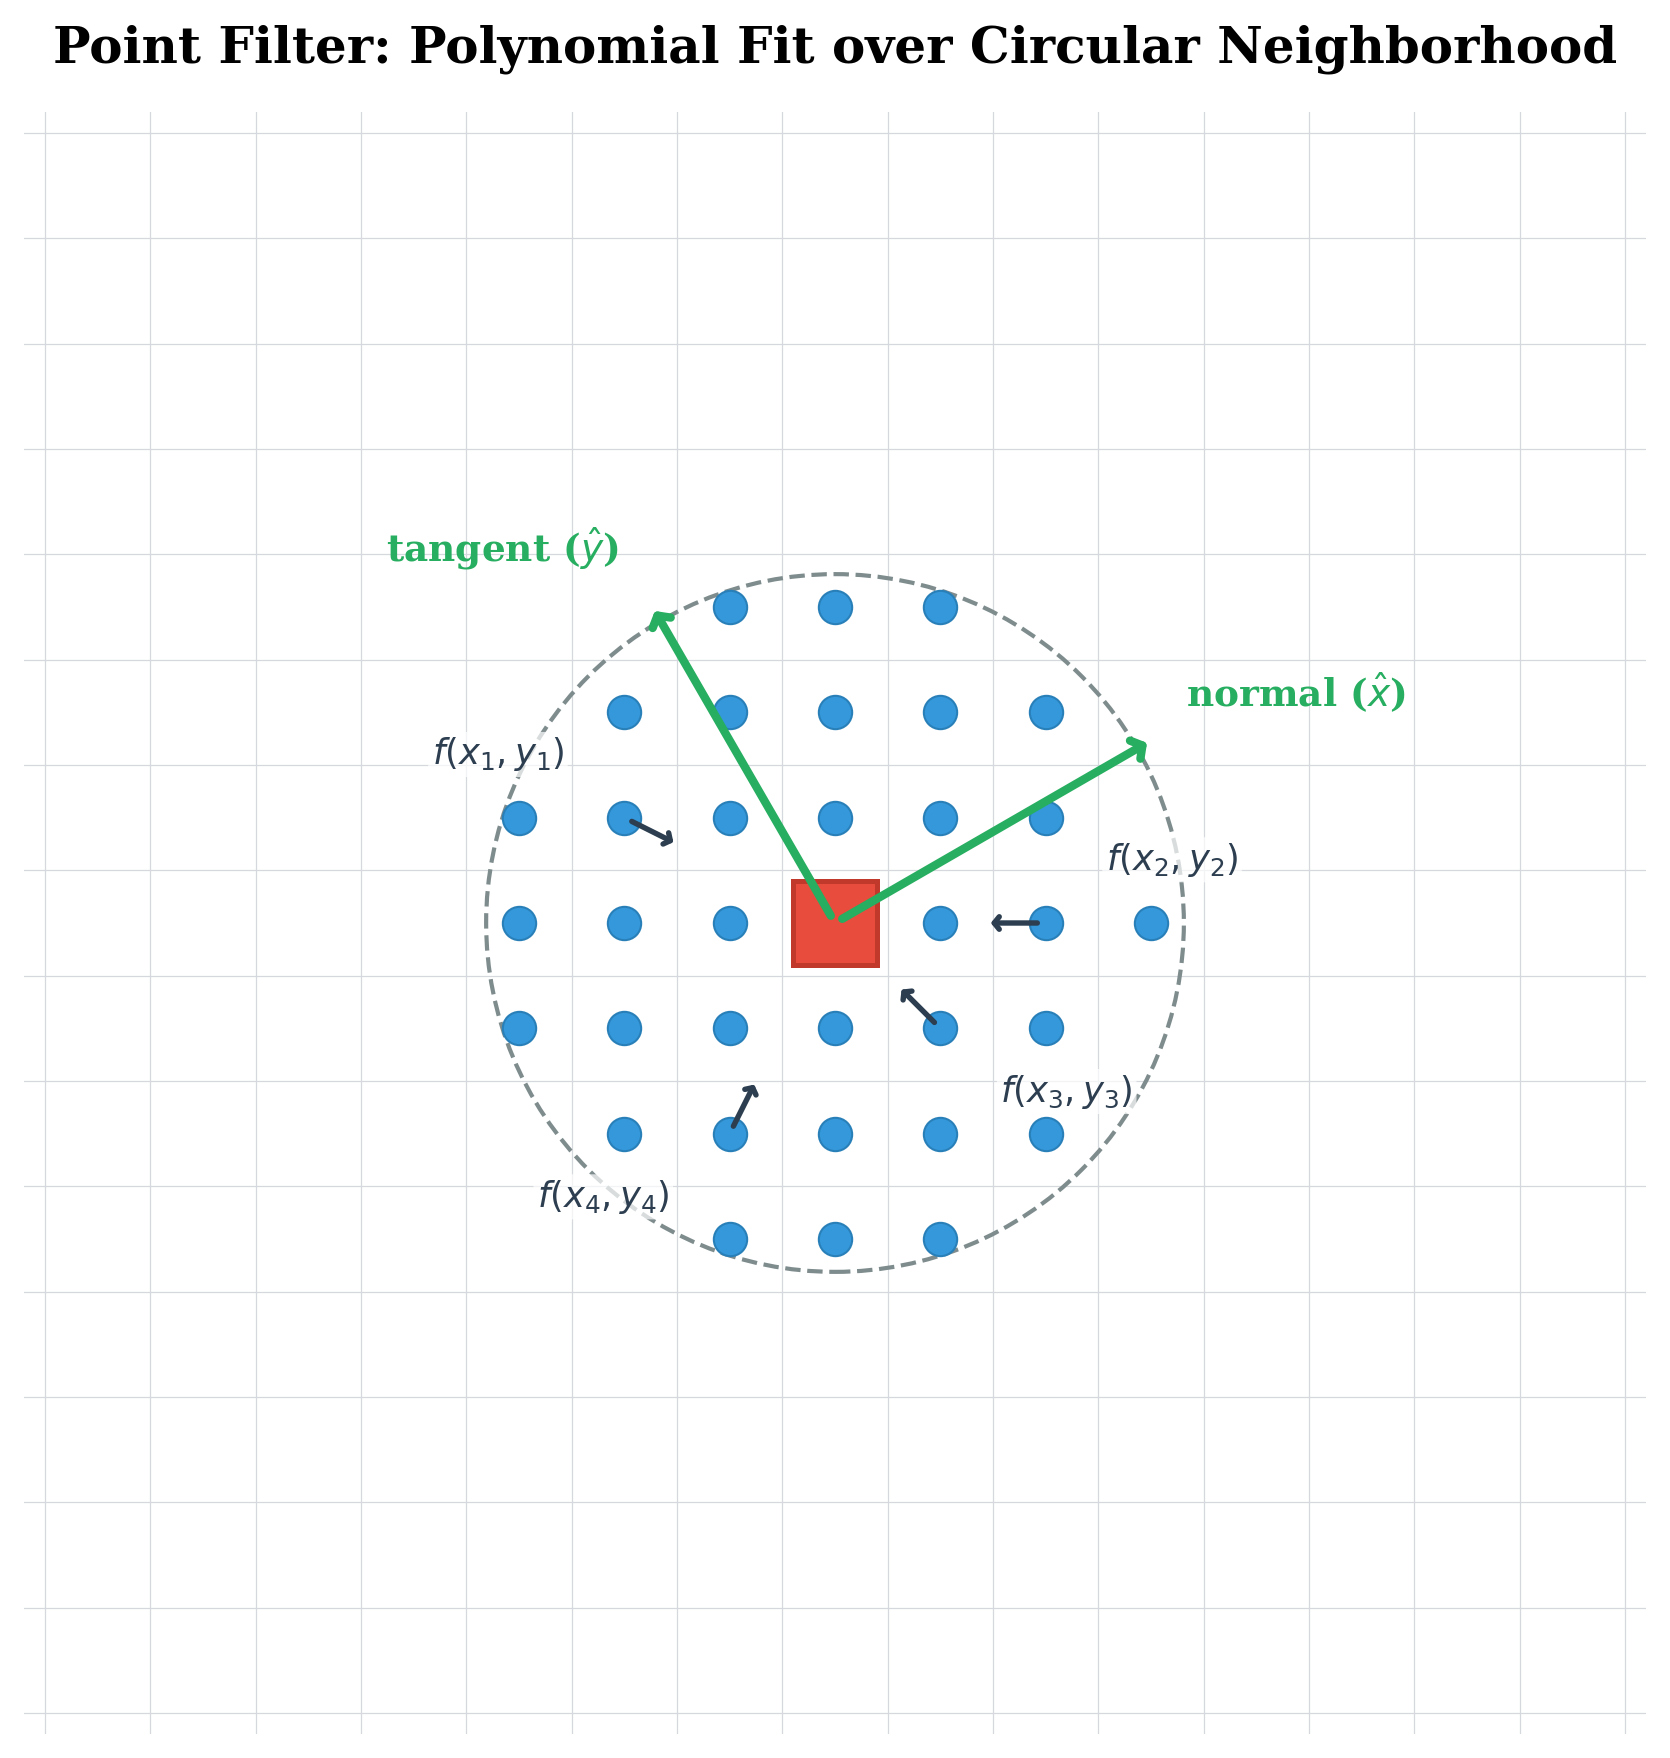
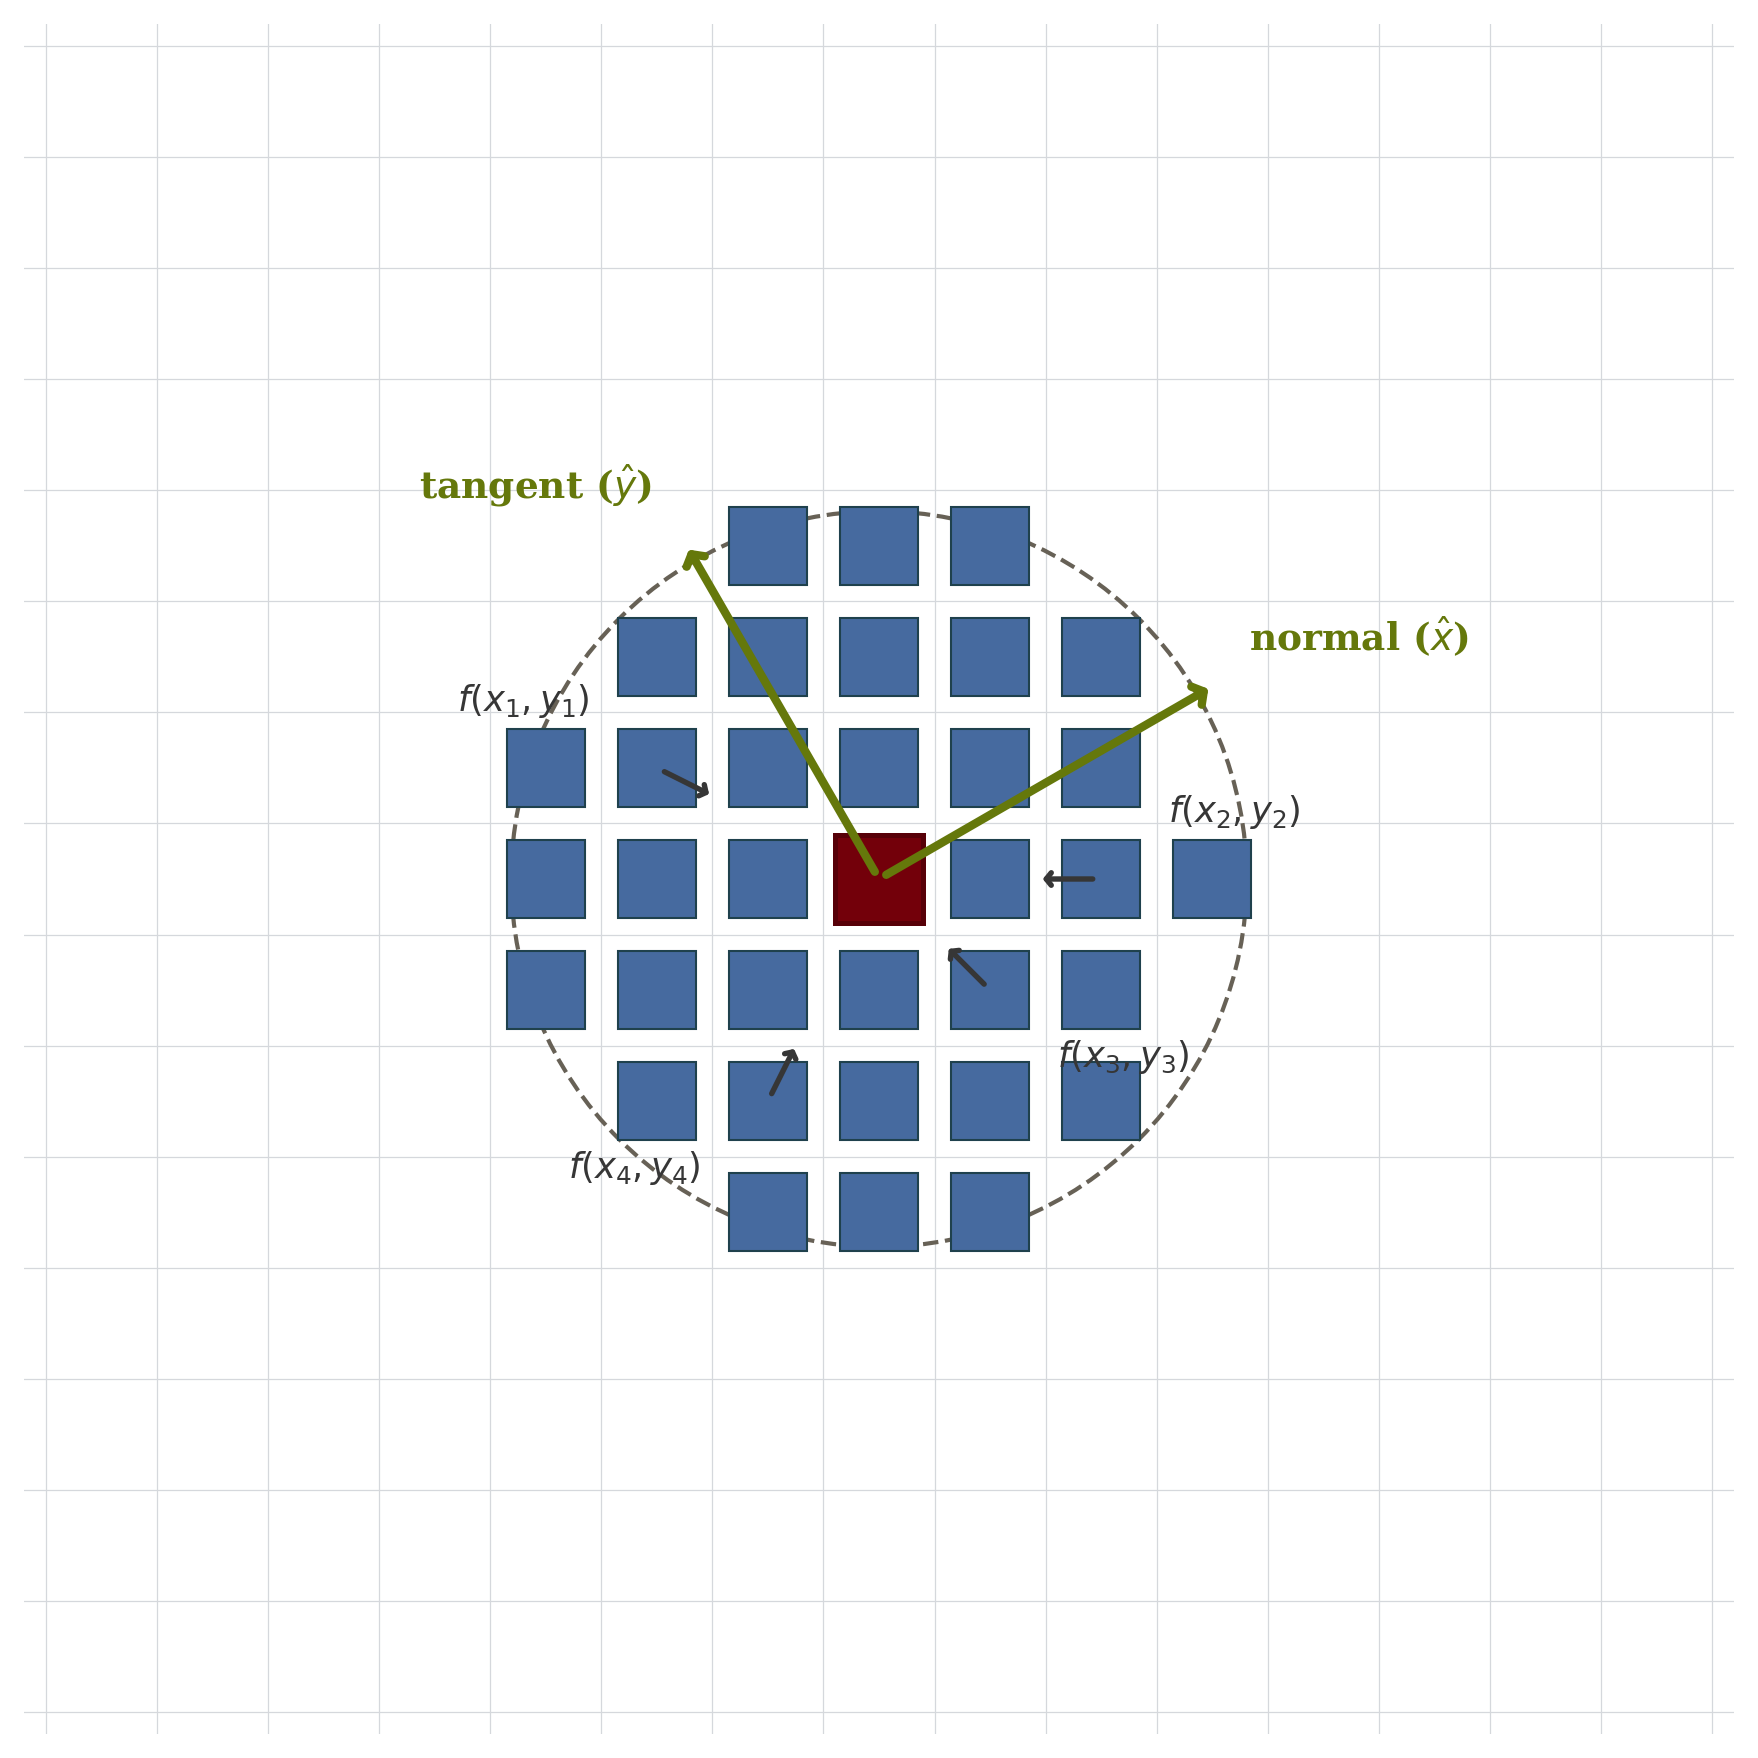
Apply CLAUDE.md style to fig1a_v2: UofSC colors, square pixels, no title/textboxes

diff --git a/scripts/generate_paper_figures_v2.py b/scripts/generate_paper_figures_v2.py
@@ -141,21 +141,21 @@ def figure1a():
     # Dashed circle showing neighborhood boundary
     max_r = max(np.sqrt(dx**2 + dy**2) for dx, dy in neighbors)
     circle = plt.Circle((0, 0), max_r + 0.15, fill=False, linestyle="--",
-                         edgecolor="#7f8c8d", linewidth=1.0, zorder=2)
+                         edgecolor="#676156", linewidth=1.0, zorder=2)
     ax.add_patch(circle)
 
-    # Neighbor pixels as blue circles
+    # Neighbor pixels as Atlantic blue squares
     for dx, dy in neighbors:
-        ax.plot(dx, dy, "o", color="#3498db", ms=8, zorder=4,
-                markeredgecolor="#2980b9", markeredgewidth=0.5)
+        ax.add_patch(plt.Rectangle((dx - 0.35, dy - 0.35), 0.7, 0.7,
+                                    facecolor="#466A9F", edgecolor="#1F414D",
+                                    linewidth=0.5, zorder=4))
 
-    # Center pixel as red square
+    # Center pixel as Garnet square
     ax.add_patch(plt.Rectangle((-0.4, -0.4), 0.8, 0.8,
-                                facecolor="#e74c3c", edgecolor="#c0392b",
+                                facecolor="#73000A", edgecolor="#570008",
                                 linewidth=1.2, zorder=5))
 
     # Arrows from a few neighbors toward center with labels
-    # Use well-spaced actual neighbors from Np=15
     arrow_sources = [(-2, 1), (2, 0), (1, -1), (-1, -2)]
     label_offsets = [(-1.2, 0.6), (1.2, 0.6), (1.2, -0.6), (-1.2, -0.6)]
     for i, ((sx, sy), (lox, loy)) in enumerate(zip(arrow_sources, label_offsets)):
@@ -168,35 +168,31 @@ def figure1a():
             "", xy=(sx + dx_n * 0.6, sy + dy_n * 0.6),
             xytext=(sx, sy),
             arrowprops=dict(arrowstyle="->,head_width=0.15,head_length=0.12",
-                            color="#2c3e50", lw=1.3),
+                            color="#363636", lw=1.3),
             zorder=6,
         )
-        # Label offset from the source pixel
+        # Label offset from the source pixel (no textbox)
         ax.text(sx + lox, sy + loy,
-                f"$f(x_{{{i+1}}}, y_{{{i+1}}})$", fontsize=8.5, color="#2c3e50",
-                ha="center", va="center", zorder=7,
-                bbox=dict(boxstyle="round,pad=0.1", facecolor="white",
-                          edgecolor="none", alpha=0.7))
+                f"$f(x_{{{i+1}}}, y_{{{i+1}}})$", fontsize=8.5, color="#363636",
+                ha="center", va="center", zorder=7)
 
     # Local coordinate axes (rotated ~30 deg)
     axis_len = 3.5
     cos_a, sin_a = np.cos(theta_axis), np.sin(theta_axis)
-    # x-axis (normal direction) - green
+    # x-axis (normal direction) - Horseshoe green
     ax.annotate("", xy=(axis_len * cos_a, axis_len * sin_a), xytext=(0, 0),
                 arrowprops=dict(arrowstyle="->,head_width=0.25,head_length=0.2",
-                                color="#27ae60", lw=2.0), zorder=8)
+                                color="#65780B", lw=2.0), zorder=8)
     ax.text(axis_len * cos_a + 0.3, axis_len * sin_a + 0.3,
-            "normal ($\\hat{x}$)", fontsize=9, color="#27ae60",
+            "normal ($\\hat{x}$)", fontsize=9, color="#65780B",
             fontweight="bold", zorder=8)
-    # y-axis (tangent direction) - green
+    # y-axis (tangent direction) - Horseshoe green
     ax.annotate("", xy=(-axis_len * sin_a, axis_len * cos_a), xytext=(0, 0),
                 arrowprops=dict(arrowstyle="->,head_width=0.25,head_length=0.2",
-                                color="#27ae60", lw=2.0), zorder=8)
+                                color="#65780B", lw=2.0), zorder=8)
     ax.text(-axis_len * sin_a - 0.3, axis_len * cos_a + 0.4,
-            "tangent ($\\hat{y}$)", fontsize=9, color="#27ae60",
+            "tangent ($\\hat{y}$)", fontsize=9, color="#65780B",
             fontweight="bold", ha="right", zorder=8)
-
-    ax.set_title("Point Filter: Polynomial Fit over Circular Neighborhood", pad=12)
     fig.tight_layout()
     _save(fig, "fig1a_point_filter")
 
